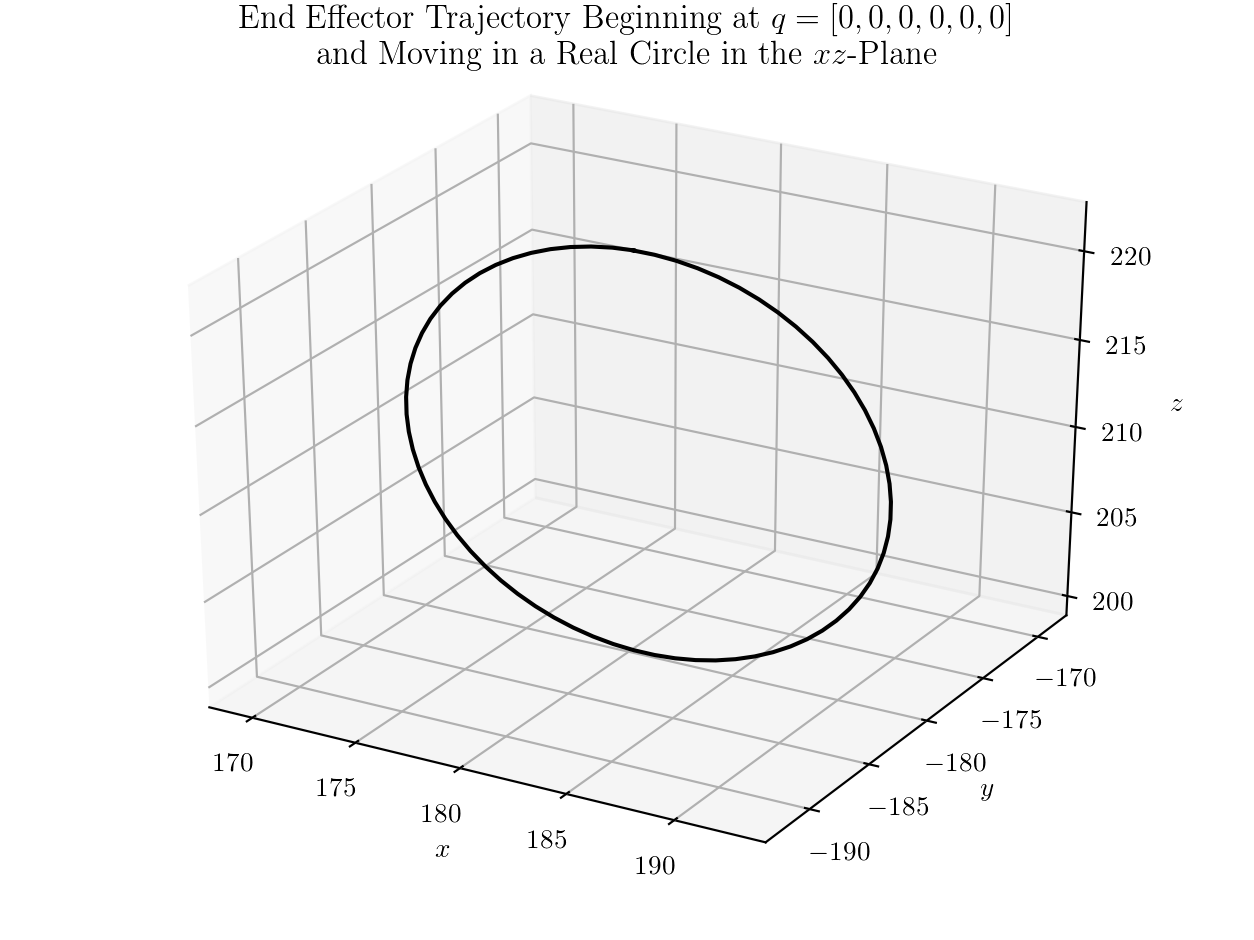
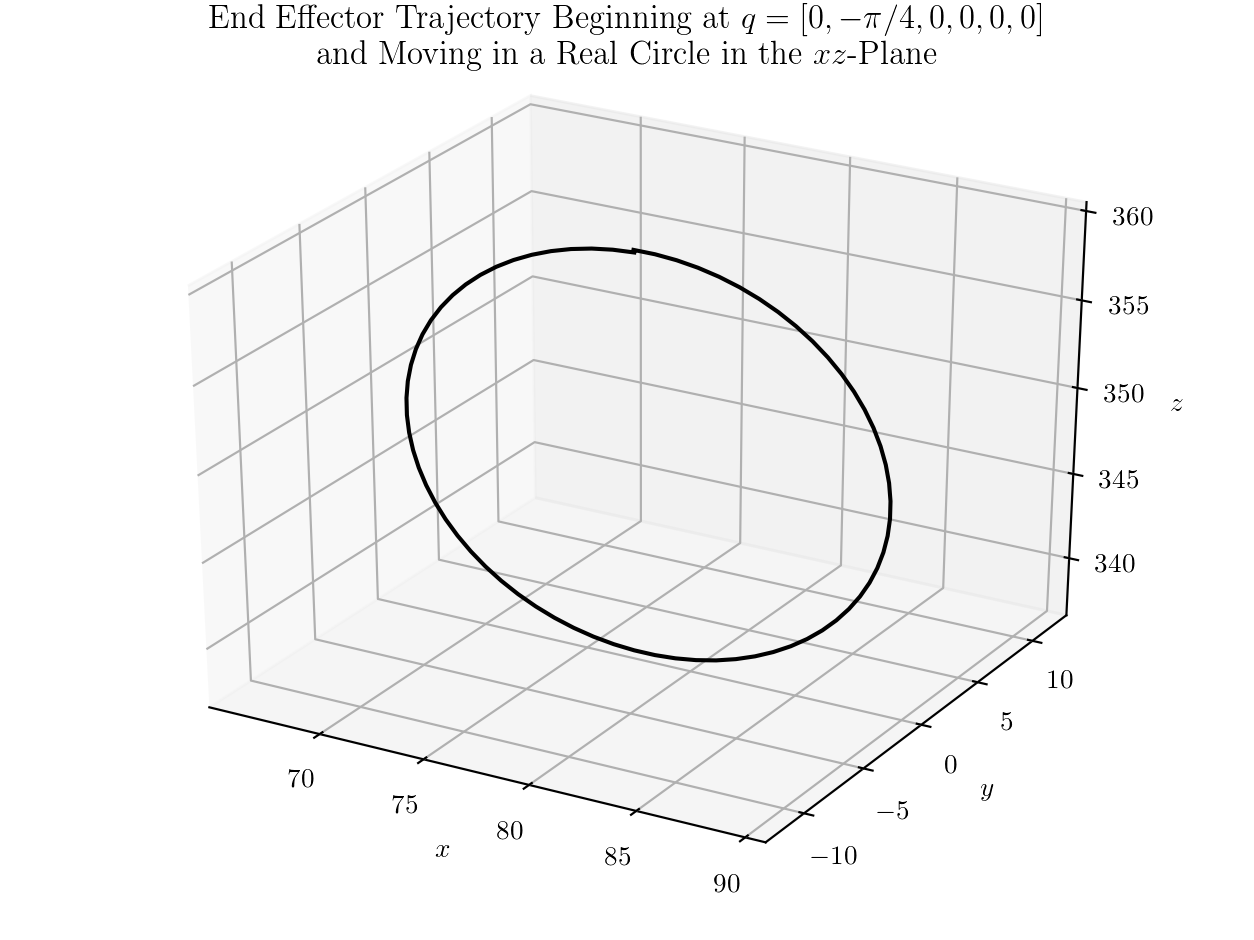
Determine more circular trajectories

diff --git a/Lab4/IK_velocity.py b/Lab4/IK_velocity.py
@@ -305,10 +305,10 @@ if __name__=='__main__':
                                   [-np.sin(theta),0,np.cos(theta)]])
     
     # follow a circle in the xz plane, but better?
-    q0 = np.array([-np.pi/4,0,0,0,0,0]) # start
+    q0 = np.array([0,-np.pi/4,0,0,0,0]) # start
     v = np.array([1,0,0])
     omega = np.array([np.nan,np.nan,np.nan]) # don't care about orientation
-    titleStr = r'End Effector Trajectory Beginning at $q=[0,0,0,0,0,0]$' + \
+    titleStr = r'End Effector Trajectory Beginning at $q=[0,-\pi/4,0,0,0,0]$' + \
         '\n' + r'and Moving in a Real Circle in the $xz$-Plane'
     qTitleStr = r'Joint Variable Changes Over Time for Moving the End Effector' + \
         '\n' + r'in a Real Circle in the $xz$-Plane'
@@ -317,6 +317,55 @@ if __name__=='__main__':
     rot = lambda theta: np.array([[np.cos(theta),0,np.sin(theta)],
                                   [0,1,0],
                                   [-np.sin(theta),0,np.cos(theta)]])
+    
+    # follow a circle in the xz plane, but rotated
+    q0 = np.array([-np.pi/4,0,0,0,0,0]) # start
+    v = np.array([1,0,0])
+    omega = np.array([np.nan,np.nan,np.nan]) # don't care about orientation
+    titleStr = r'End Effector Trajectory Beginning at $q=[-\pi/4,9,0,0,0,0]$' + \
+        '\n' + r'and Moving in a Circle in the $xz$-Plane'
+    qTitleStr = r'Joint Variable Changes Over Time for Moving the End Effector' + \
+        '\n' + r'in a Circle in the $xz$-Plane'
+    fileName = 'XZ_angleCirc_rot.png'
+    trajName = 'XZ_angleCirc_q_rot.png'
+    rot = lambda theta: np.array([[np.cos(theta),0,np.sin(theta)],
+                                  [0,1,0],
+                                  [-np.sin(theta),0,np.cos(theta)]])
+    
+    # Circles with Orientation ##################
+    # follow a circle in the xz plane, but better?
+    q0 = np.array([0,-np.pi/4,0,0,0,0]) # start
+    v = np.array([1,0,0])
+    omega = np.array([0,0,0]) # don't care about orientation
+    titleStr = r'End Effector Trajectory Beginning at $q=[0,-\pi/4,0,0,0,0]$' + \
+        '\n' + r'and Moving in a Real Circle in the $xz$-Plane, Maintaining Orientation'
+    qTitleStr = r'Joint Variable Changes Over Time for Moving the End Effector' + \
+        '\n' + r'in a Real Circle in the $xz$-Plane, Maintaining Orientation'
+    errTitleStr = r'Euclidean Norm of Orientation Deviation from Initial Orientation' + \
+        '\n' + r'Moving the End Effector in an $xz$ Circle, Maintaining Orientation'
+    fileName = 'XZ_better_noRot.png'
+    trajName = 'XZ_better_q_noRot.png'
+    errName = 'XZ_better_noRot_err'
+    rot = lambda theta: np.array([[np.cos(theta),0,np.sin(theta)],
+                                  [0,1,0],
+                                  [-np.sin(theta),0,np.cos(theta)]])
+    
+    # follow a circle in the xz plane, but rotated
+    # q0 = np.array([-np.pi/4,0,0,0,0,0]) # start
+    # v = np.array([1,0,0])
+    # omega = np.array([0,0,0]) # don't care about orientation
+    # titleStr = r'End Effector Trajectory Beginning at $q=[-\pi/4,9,0,0,0,0]$' + \
+    #     '\n' + r'and Moving in a Circle in the $xz$-Plane, Maintaining Orientation'
+    # qTitleStr = r'Joint Variable Changes Over Time for Moving the End Effector' + \
+    #     '\n' + r'in a Circle in the $xz$-Plane, Maintaining Orientation'
+    # errTitleStr = r'Euclidean Norm of Orientation Deviation from Initial Orientation' + \
+    #     '\n' + r'Moving the End Effector in an $xz$ Circle out of the $xz$-Plane, Maintaining Orientation'
+    # fileName = 'XZ_angleCirc_noRot.png'
+    # trajName = 'XZ_angleCirc_q_noRot.png'
+    # errName = 'XZ_angleCirc_noRot_err.png'
+    # rot = lambda theta: np.array([[np.cos(theta),0,np.sin(theta)],
+    #                               [0,1,0],
+    #                               [-np.sin(theta),0,np.cos(theta)]])
     
     
     
